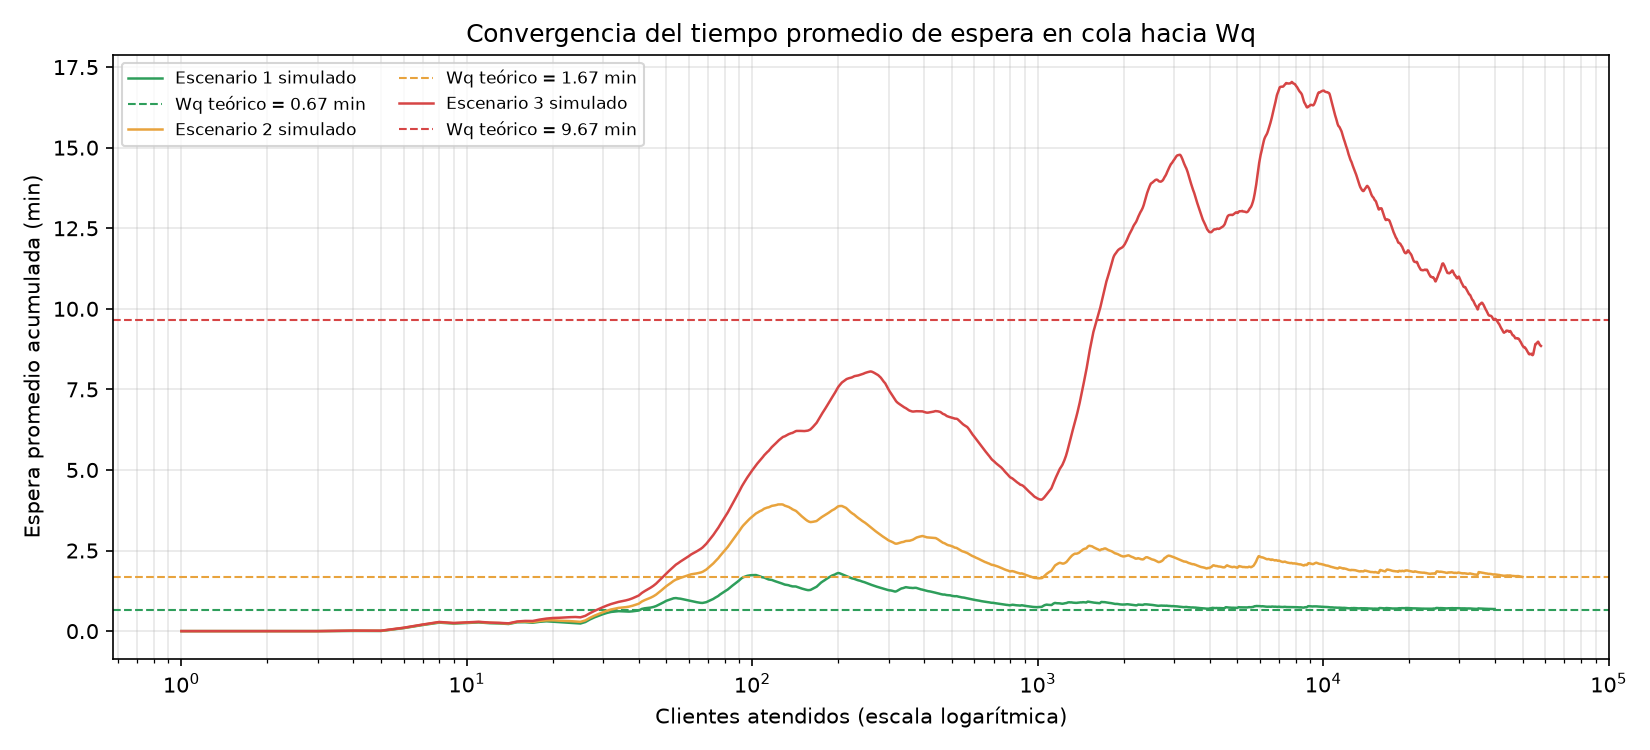
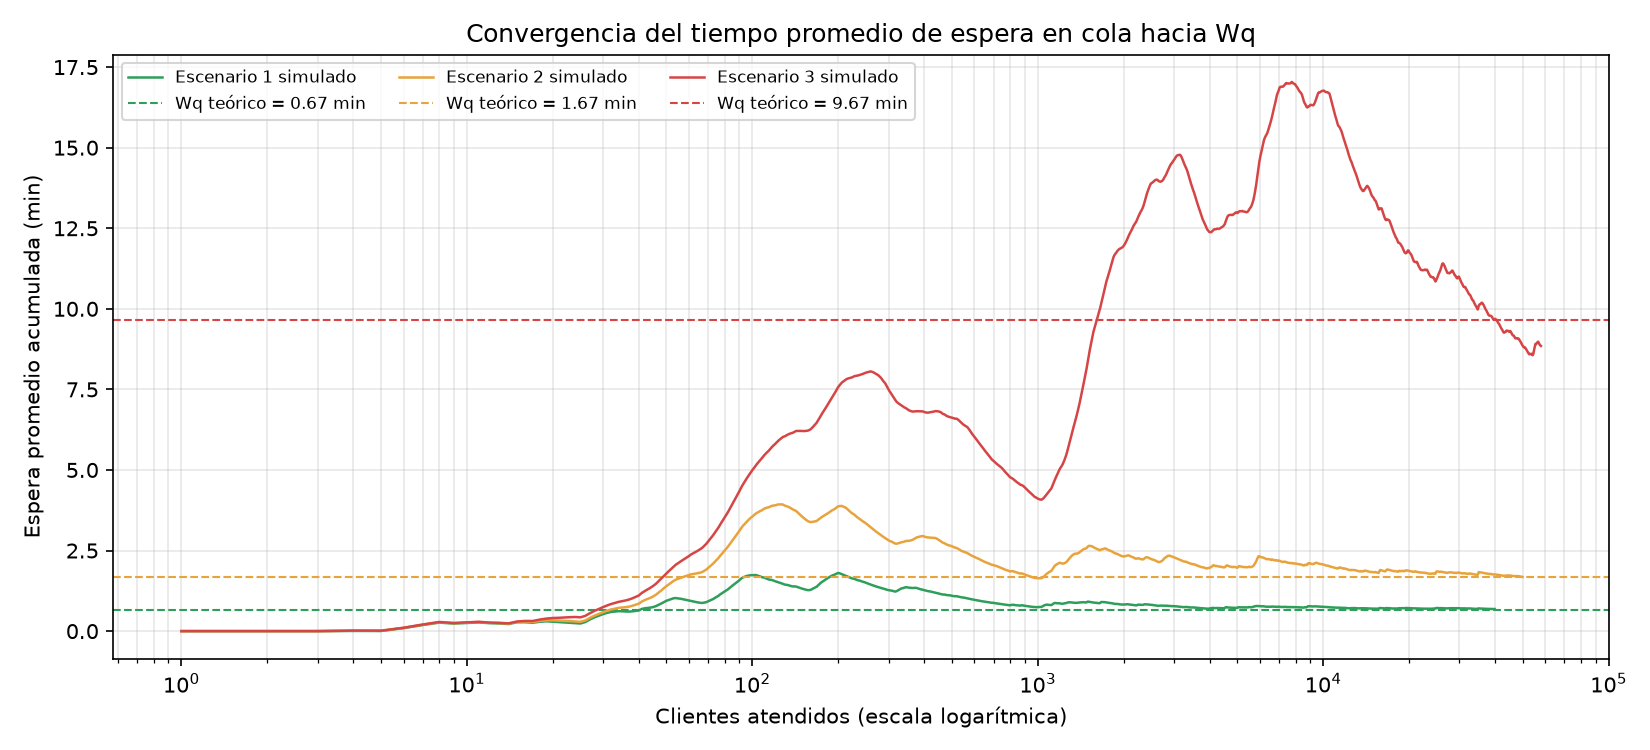
fix(graficas): agrupar la leyenda de convergencia por escenario
La leyenda usaba dos columnas y Matplotlib la llena por columnas, asi que
el simulado de un escenario quedaba separado de su Wq teorico. Ahora hay
una columna por escenario.

Changed region(s): [[0.0618, 0.092, 0.4018, 0.184], [0.4327, 0.092, 0.5564, 0.1533]]

diff --git a/codigo/tests/test_charts.py b/codigo/tests/test_charts.py
@@ -11,3 +11,20 @@ def test_save_charts_creates_the_wait_scatter_plot(tmp_path):
     scatter = tmp_path / "dispersion_espera.png"
     assert scatter in paths
     assert scatter.stat().st_size > 0
+
+
+def test_running_wait_legend_groups_each_scenario_in_its_own_column(tmp_path, monkeypatch):
+    """La leyenda de convergencia muestra cada escenario en una columna: simulado arriba y su Wq teórico abajo."""
+    from simulacion_ape.view import chart_view
+
+    figures = []
+    monkeypatch.setattr(chart_view, "_save", lambda fig, path: figures.append(fig) or path)
+    results = [run_scenario(scenario, SimulationConfig(sim_time=300.0)) for scenario in SCENARIOS]
+    chart_view.plot_running_wait(results, tmp_path / "convergencia_espera.png")
+
+    legend = figures[0].axes[0].get_legend()
+    labels = [text.get_text() for text in legend.get_texts()]
+    assert legend._ncols == len(results)
+    for column, result in enumerate(results):
+        assert labels[2 * column] == f"Escenario {result.scenario.number} simulado"
+        assert labels[2 * column + 1] == f"Wq teórico = {result.theory.mean_wait:.2f} min"

diff --git a/codigo/simulacion_ape/view/chart_view.py b/codigo/simulacion_ape/view/chart_view.py
@@ -49,7 +49,8 @@ def plot_running_wait(results: list[ScenarioResult], path: Path) -> Path:
     ax.set_xlabel("Clientes atendidos (escala logarítmica)")
     ax.set_ylabel("Espera promedio acumulada (min)")
     ax.set_title("Convergencia del tiempo promedio de espera en cola hacia Wq")
-    ax.legend(fontsize=8, ncol=2)
+    # Una columna por escenario: Matplotlib llena la leyenda por columnas, así cada simulado queda sobre su Wq.
+    ax.legend(fontsize=8, ncol=len(results))
     ax.grid(alpha=0.3, which="both")
     return _save(fig, path)
 
